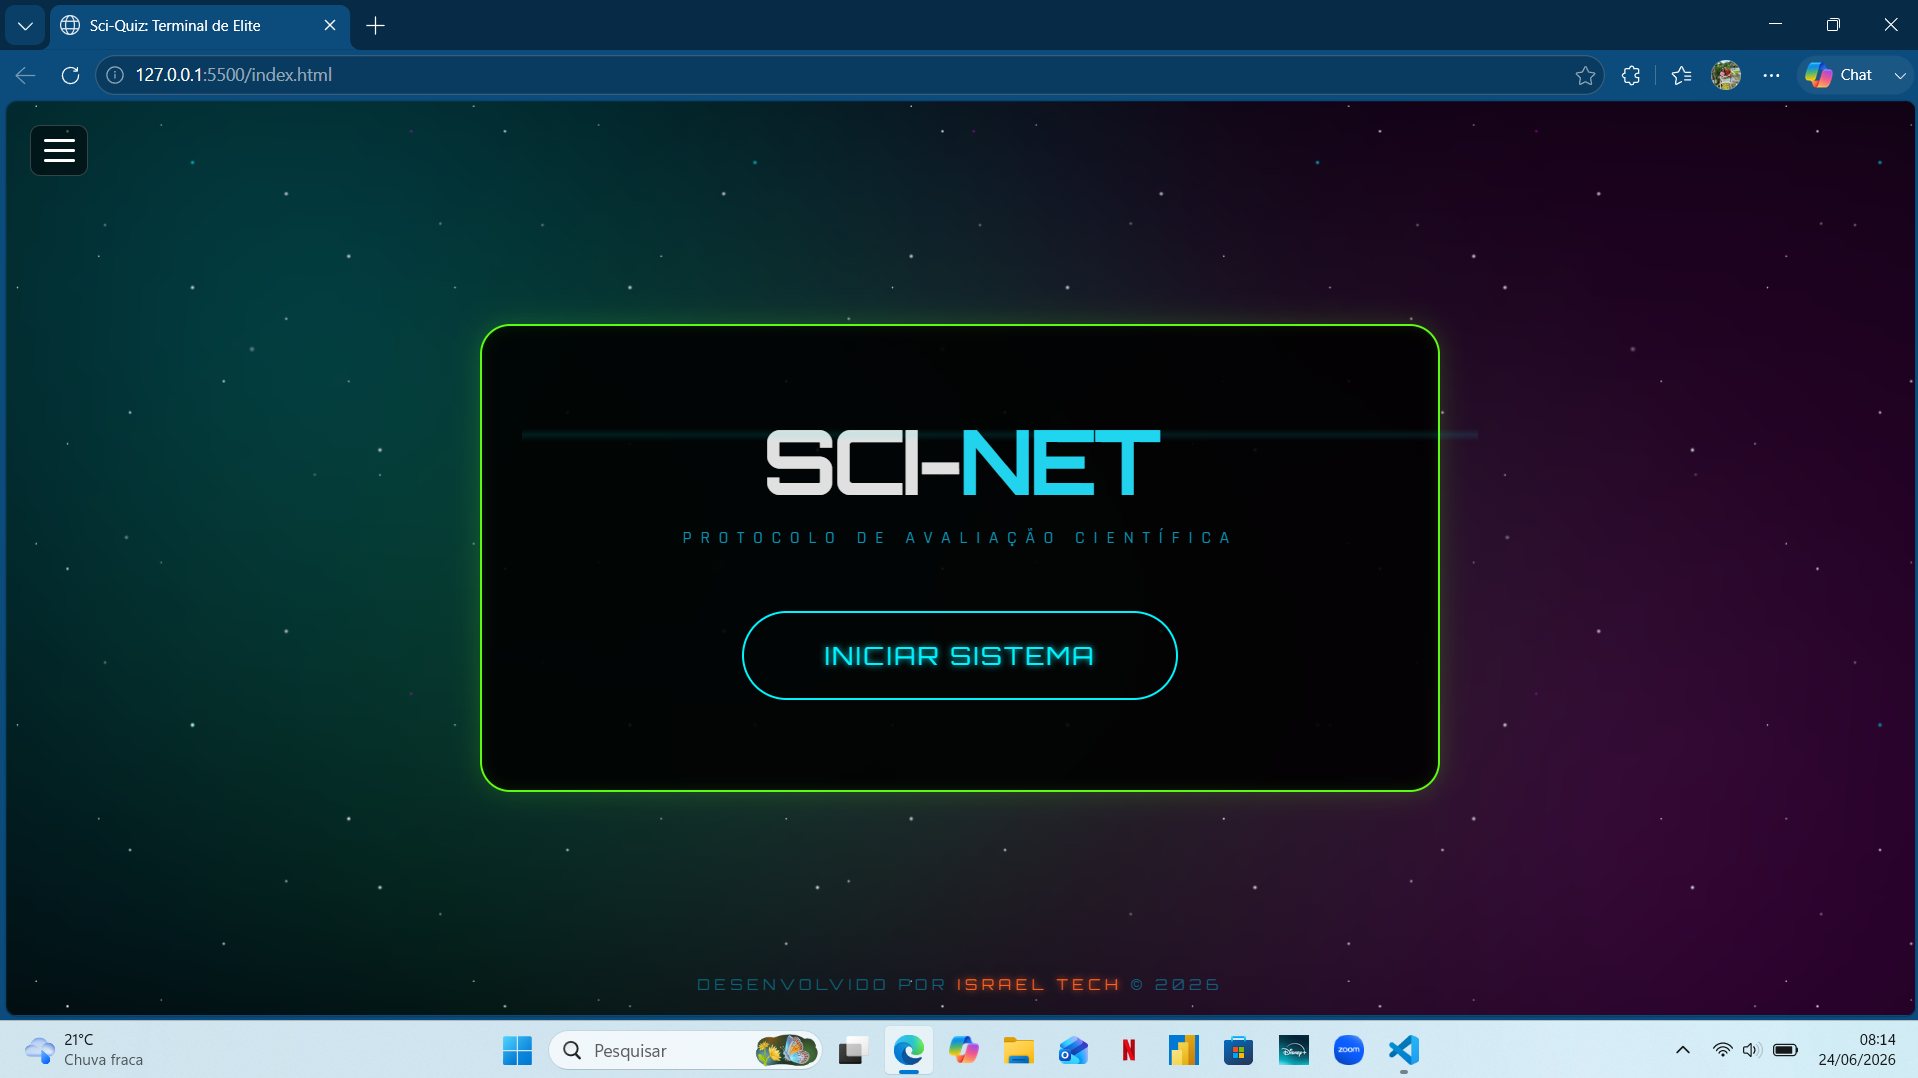
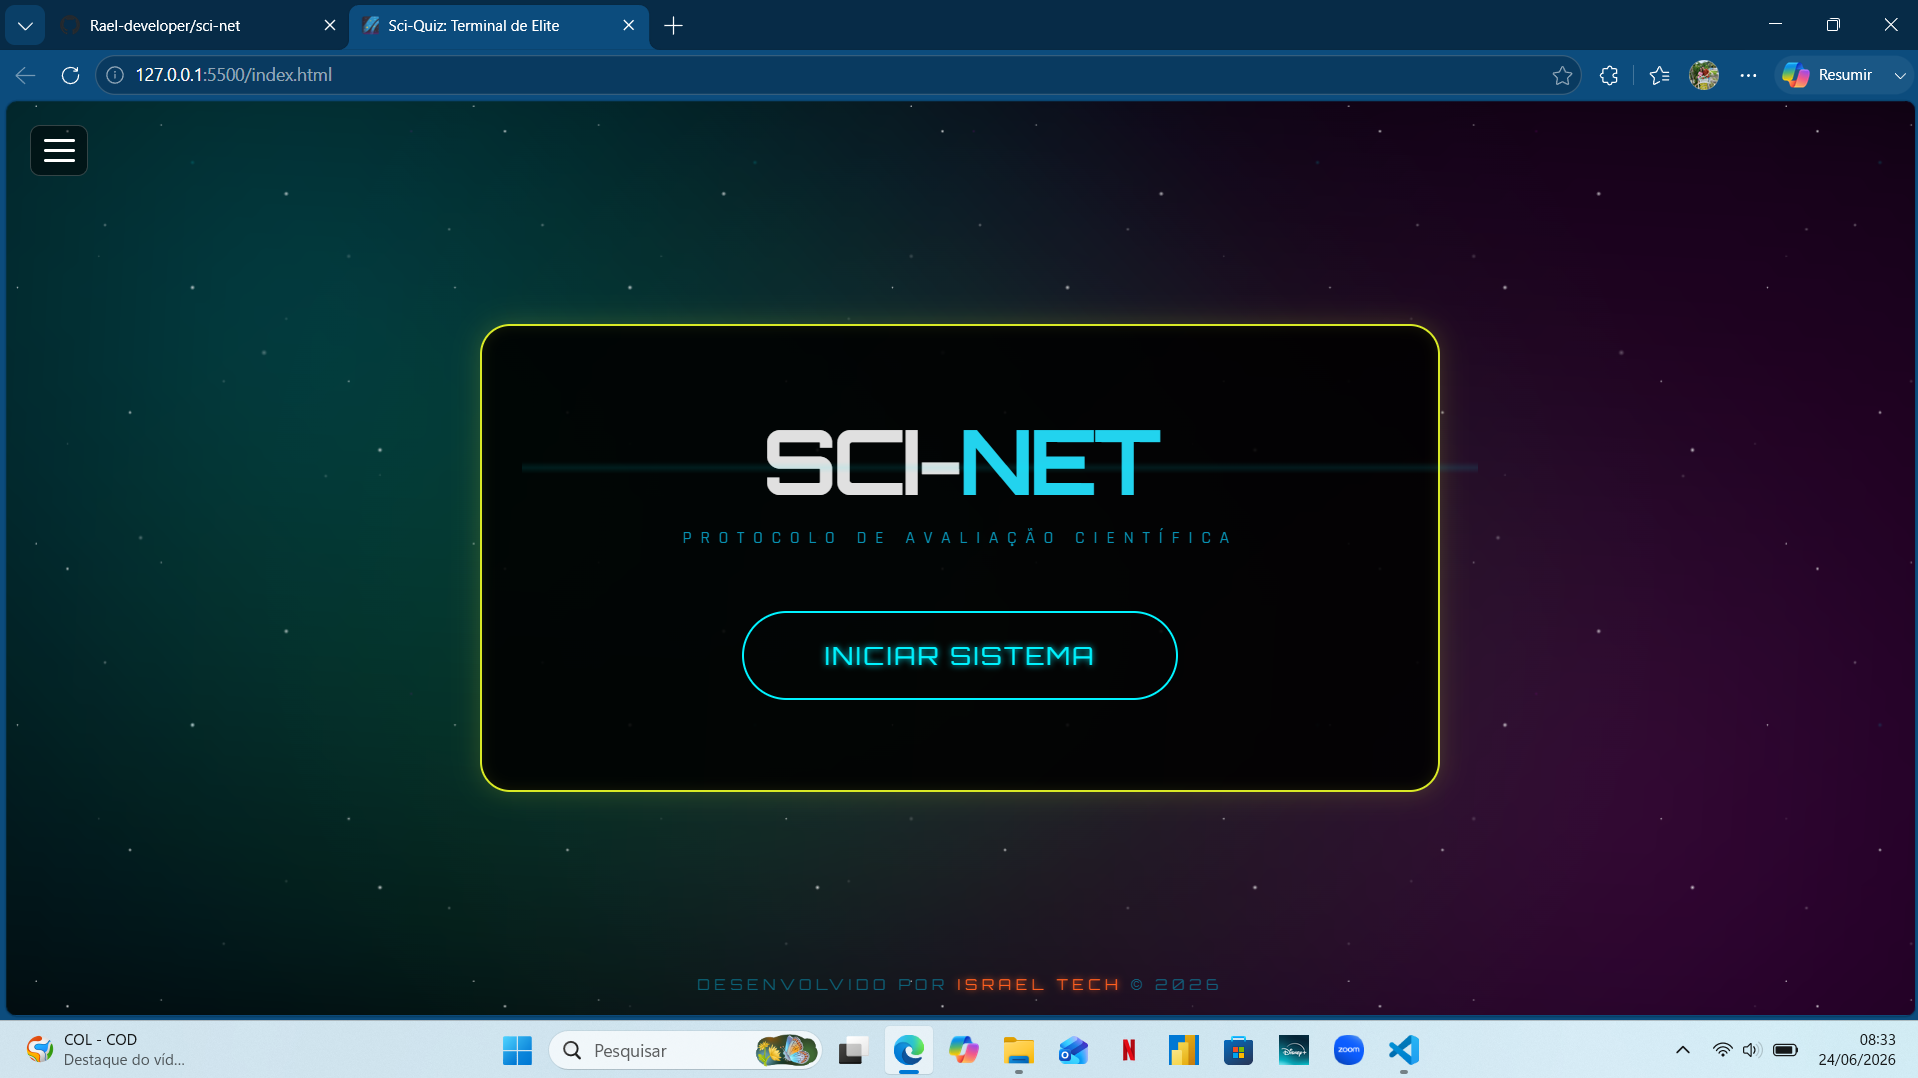
Corrigindo bug na pergunta qual cria um link

Changed region(s): [[0.0, 0.0, 0.3384, 0.0612], [0.7998, 0.0612, 0.9844, 0.0918], [0.0, 0.949, 0.0923, 1.0]]

diff --git a/script.js b/script.js
@@ -73,7 +73,7 @@ const MASTER_POOL = [
     { q: "Qual o tipo de variável que armazena Verdadeiro ou Falso?", options: ["Integer", "String", "Boolean", "Float"], correct: 2 },
     { q: "Quem descobriu a Lei da Gravidade?", options: ["Einstein", "Galileu", "Newton", "Tesla"], correct: 2 },
     { q: "Símbolo químico do Ouro?", options: ["Ag", "Au", "Gd", "Or"], correct: 1 },
-    { q: "Em HTML, qual tag cria um link?", options: ["<link>", "<a>", "<href>", "<url>"], correct: 1 },
+    { q: "Em HTML, qual tag cria um link?", options: ["< link >", "< a >", "< href >", "< url >"], correct: 1 },
     { q: "A luz viaja a que velocidade aproximada?", options: ["300.000 km/s", "150.000 km/s", "500 km/s", "1.000 km/s"], correct: 0 },
     { q: "O que significa a sigla 'CSS'?", options: ["Computer Style Sheets", "Cascading Style Sheets", "Creative Style System", "Coded Simple Styles"], correct: 1 },
     { q: "O que estuda a Termodinâmica?", options: ["Som", "Luz", "Calor", "Eletricidade"], correct: 2 },